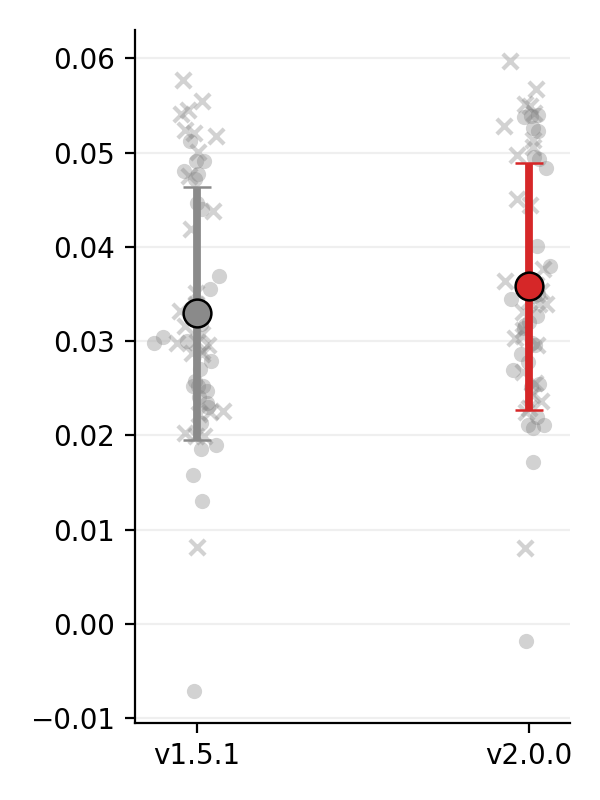
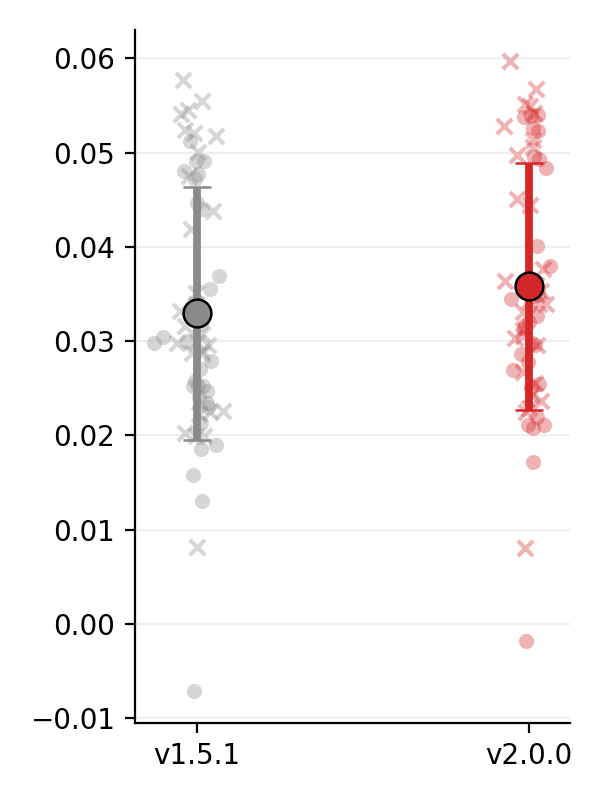
plots more colour

diff --git a/v1-v2_comp/analysis.py b/v1-v2_comp/analysis.py
@@ -301,7 +301,7 @@ def scatter_block(df_sub, value_col, labels, group_cols, out_png):
                     jit[j], vals[j],
                     s=30,
                     alpha=0.35,
-                    color="#7f7f7f",
+                    color=palette[x],
                     marker=marker,
                     linewidths=0,
                     zorder=1,
@@ -311,7 +311,7 @@ def scatter_block(df_sub, value_col, labels, group_cols, out_png):
                     jit[j], vals[j],
                     s=30,
                     alpha=0.35,
-                    color="#7f7f7f",
+                    color=palette[x],
                     marker=marker,
                     zorder=1,
                 )
